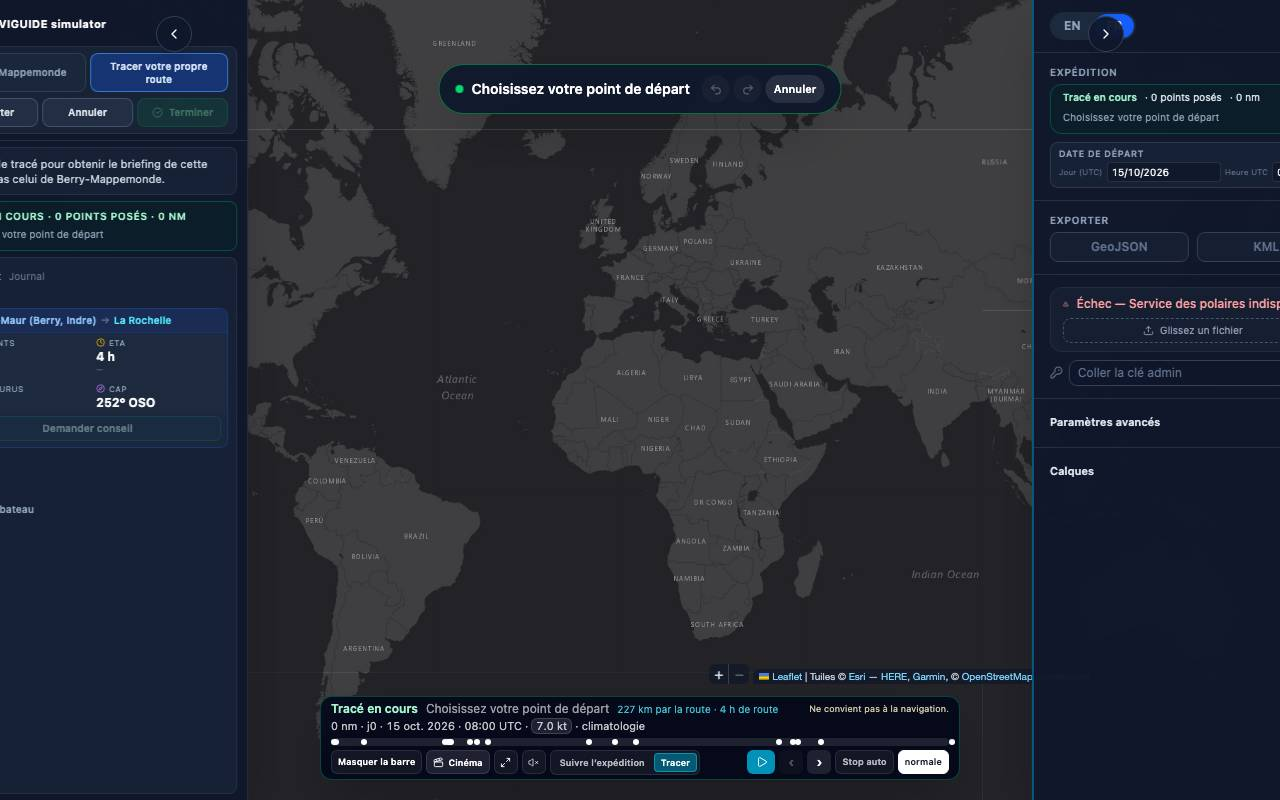
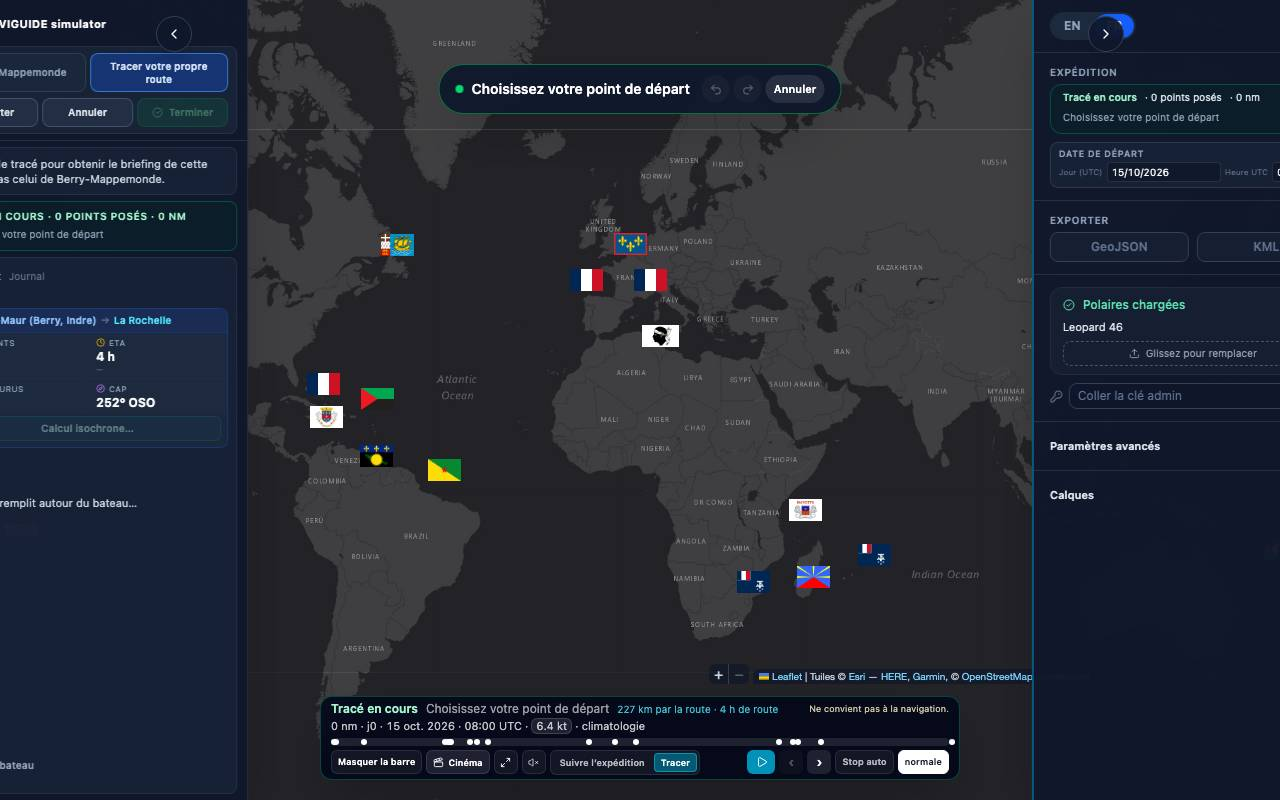
fix(simulator): lot DM6 — vitrine Berry a brouillon vide, pas d official hors Suivre x Berry
Tracer ouvre toujours le dessin, mais briefing et drapeaux Berry restent tant qu aucun point nest pose (lots M et R7). GET /voyage/official/plan-review ne part plus en Suivre x ma route.

diff --git a/naviguide-simulator/src/components/Sidebar.jsx b/naviguide-simulator/src/components/Sidebar.jsx
@@ -369,7 +369,11 @@ export const Sidebar = memo(function Sidebar({
   const briefingTitle = !iciBriefing && typeof plan?.briefing_title === "string"
     ? plan.briefing_title.trim()
     : "";
-  const showIciBriefing = !isDrawing && (isCockpit || briefing || briefingLoading || skipperNotice);
+  // DM6 — Tracer ouvre le dessin, mais un brouillon vide garde la vitrine
+  // Berry (briefing, revue, fiche d'escale). Les lots M et R7 cliquent
+  // Tracer sans poser de point : le briefing et Ajaccio restent là.
+  const drawingHidesBerry = Boolean(isDrawing && drawing?.points?.length);
+  const showIciBriefing = !drawingHidesBerry && (isCockpit || briefing || briefingLoading || skipperNotice);
 
   useEffect(() => {
     if (!showIciBriefing) return undefined;
@@ -500,7 +504,7 @@ export const Sidebar = memo(function Sidebar({
                 onGoLive={onGoLive}
               />
             )}
-            hereBody={!isDrawing ? (
+            hereBody={!drawingHidesBerry ? (
               <div data-testid="here-product">
                 <div data-testid="briefing" className="sim-box-ici min-w-0 overflow-x-hidden h-auto">
                   {briefingTitle ? (
@@ -555,8 +559,8 @@ export const Sidebar = memo(function Sidebar({
             journal={isSuivre && !isDrawing ? (
               <JournalPanel journal={journal} loading={journalLoading} error={journalError} />
             ) : null}
-            planReview={!isDrawing ? planReview : null}
-            escale={!isDrawing && escaleStop ? {
+            planReview={!drawingHidesBerry ? planReview : null}
+            escale={!drawingHidesBerry && escaleStop ? {
               stop: escaleStop,
               fiche: escaleFiche,
               loading: escaleLoading,

diff --git a/naviguide-simulator/src/map/MapSceneController.js b/naviguide-simulator/src/map/MapSceneController.js
@@ -923,7 +923,11 @@ export class MapSceneController {
       this.waypointsDirty = true;
       return;
     }
-    const source = cfg.drawingMode
+    // DM6 — brouillon vide : drapeaux Berry (Ajaccio, lot R7). Dès le
+    // premier point, seuls les ronds de tracé. Le clic fiche n'est un
+    // clic « dessin » que s'il y a déjà un point.
+    const drawingHasPoints = Boolean(cfg.drawingMode && (cfg.drawnPoints || []).length);
+    const source = drawingHasPoints
       ? (cfg.drawnPoints || []).map((point, index) => ({ ...point, name: point.name || `${index + 1}`, flag: "", flags: [] }))
       : (cfg.customRoute ? [] : (cfg.points || []));
     const inputs = {
@@ -968,7 +972,7 @@ export class MapSceneController {
     const cameraLng = this.map.getCenter()?.lng;
     source.forEach((point, index) => {
       const srcs = waypointFlagSrcs(point);
-      if (!srcs.length && !cfg.drawingMode) return;
+      if (!srcs.length && !drawingHasPoints) return;
       const offset = offsets[index] || [0, 0];
       const stamp = ` data-testid="waypoint-flag" data-escale="${String(point.name || "").replace(/"/g, "&quot;")}"`;
       const html = srcs.length
@@ -1027,7 +1031,7 @@ export class MapSceneController {
           this.waypointMarkers.set(key, marker);
         }
         marker._naviguideWaypoint = point;
-        marker._naviguideDrawing = cfg.drawingMode;
+        marker._naviguideDrawing = drawingHasPoints;
         marker._naviguideIndex = index;
         marker.setLatLng([point.lat, lng]);
         if (marker._naviguideIconKey !== iconKey) {

diff --git a/naviguide-simulator/src/App.jsx b/naviguide-simulator/src/App.jsx
@@ -1250,10 +1250,9 @@ export default function App() {
     setCameraFollow(false);
     setDrawingMode(true);
     berryFetchIdRef.current += 1;
-    setExpeditionPlan(null);
-    setBriefingLoading(false);
-    // Lot I: nothing of the official route lingers on the map while drawing —
-    // no briefing pin, no escale sheet, no replay.
+    // DM6 — un brouillon vide garde le briefing Berry (lot M). On ne le
+    // vide plus à l'ouverture du dessin ; le pin carte et la fiche d'escale
+    // restent coupés (lot I).
     sceneApiRef.current?.briefing?.clear?.();
     setEscaleStop(null);
     if (replay.active) replay.stop();
@@ -1520,7 +1519,9 @@ export default function App() {
   }, [officialClock, isSuivre, sceneApi]);
   // Revue de plan par règles (lot K): legs from the server (clock + pearls), season from the atlas cache.
   const planReviewState = usePlanReview({
-    enabled: Boolean(officialClock),
+    // DM5 — GET /voyage/official/plan-review (et /eta) seulement en
+    // Suivre × Berry. Tracer et Suivre × ma route gardent le repli local.
+    enabled: Boolean(suivreBerry && officialClock),
     frozen: replay.active,
     clock: officialClock,
     nowMs: clockNowMs,

diff --git a/naviguide-simulator/src/map/MapSceneMarkers.test.js b/naviguide-simulator/src/map/MapSceneMarkers.test.js
@@ -131,6 +131,8 @@ describe("MapSceneController — zoom (lot U / RG15)", () => {
     assert.equal(calls.sheet.length, 1, "le clic dessin n'ouvre pas la fiche");
     assert.match(src, /onWaypointClick\?\.\(marker\._naviguideWaypoint, marker\._naviguideIndex\)/);
     assert.match(src, /if \(marker\._naviguideDrawing\) \{\s*this\.callbacks\.onDrawingWaypointClick/);
+    assert.match(src, /const drawingHasPoints = Boolean\(cfg\.drawingMode && \(cfg\.drawnPoints \|\| \[\]\)\.length\)/);
+    assert.match(src, /marker\._naviguideDrawing = drawingHasPoints/);
   });
 
   it("lot RD2 — rond de tracé via drawingPinMetrics, plus d'icône 24×24 décalée", () => {

diff --git a/naviguide-simulator/src/map/routeDrawPlan.test.js b/naviguide-simulator/src/map/routeDrawPlan.test.js
@@ -90,6 +90,7 @@ describe("routeDrawPlan (lot DM5) — une seule route à l'écran", () => {
     const app = read("../App.jsx");
     // L'horloge officielle (PUT/GET /voyage/official) ne sert que Suivre × Berry.
     assert.match(app, /const official = useOfficialExpedition\(\{\s*enabled: suivreBerry,/);
+    assert.match(app, /enabled: Boolean\(suivreBerry && officialClock\)/);
     assert.match(app, /useOfficialJournal\(\{ enabled: suivreBerry \}\)/);
     // Le voyage serveur de la route perso porte Suivre × custom comme Tracer.
     assert.match(app, /enabled: \(isSimulation \|\| suivreCustom\) && routeReady,/);

diff --git a/naviguide-simulator/src/components/PlanReview.test.js b/naviguide-simulator/src/components/PlanReview.test.js
@@ -25,7 +25,7 @@ describe("PlanReview — commentaire (lot L5)", () => {
     assert.match(app, /commentSource: planReviewState\.review\?\.comment\?\.source/);
     assert.match(ici, /comment=\{planReview\.comment\}/);
     assert.match(ici, /<PlanReview[\s\S]*legs=\{planReview\.legs\}/);
-    assert.match(sidebar, /planReview=\{!isDrawing \? planReview : null\}/);
+    assert.match(sidebar, /planReview=\{!drawingHidesBerry \? planReview : null\}/);
     assert.match(app, /planReview=\{planReview\}/);
     assert.doesNotMatch(tools, /<PlanReview/);
     assert.doesNotMatch(tools, /planReview && !drawing/);

diff --git a/naviguide-simulator/src/components/Sidebar.layout.test.js b/naviguide-simulator/src/components/Sidebar.layout.test.js
@@ -66,7 +66,8 @@ describe("Sidebar layout (lot R8c)", () => {
   it("réserve le sac ici à hauteur fixe avec le placeholder de remplissage", () => {
     assert.match(sidebar, /iciBriefingLoading/);
     assert.match(sidebar, /Le sac se remplit|iciBriefingLoading/);
-    assert.match(sidebar, /\{!isDrawing \? \(/);
+    assert.match(sidebar, /drawingHidesBerry/);
+    assert.match(sidebar, /hereBody=\{!drawingHidesBerry \? \(/);
   });
 
   it("lot DM6 — Berry ne jette pas le brouillon ; reprendre le tracé si points", () => {
